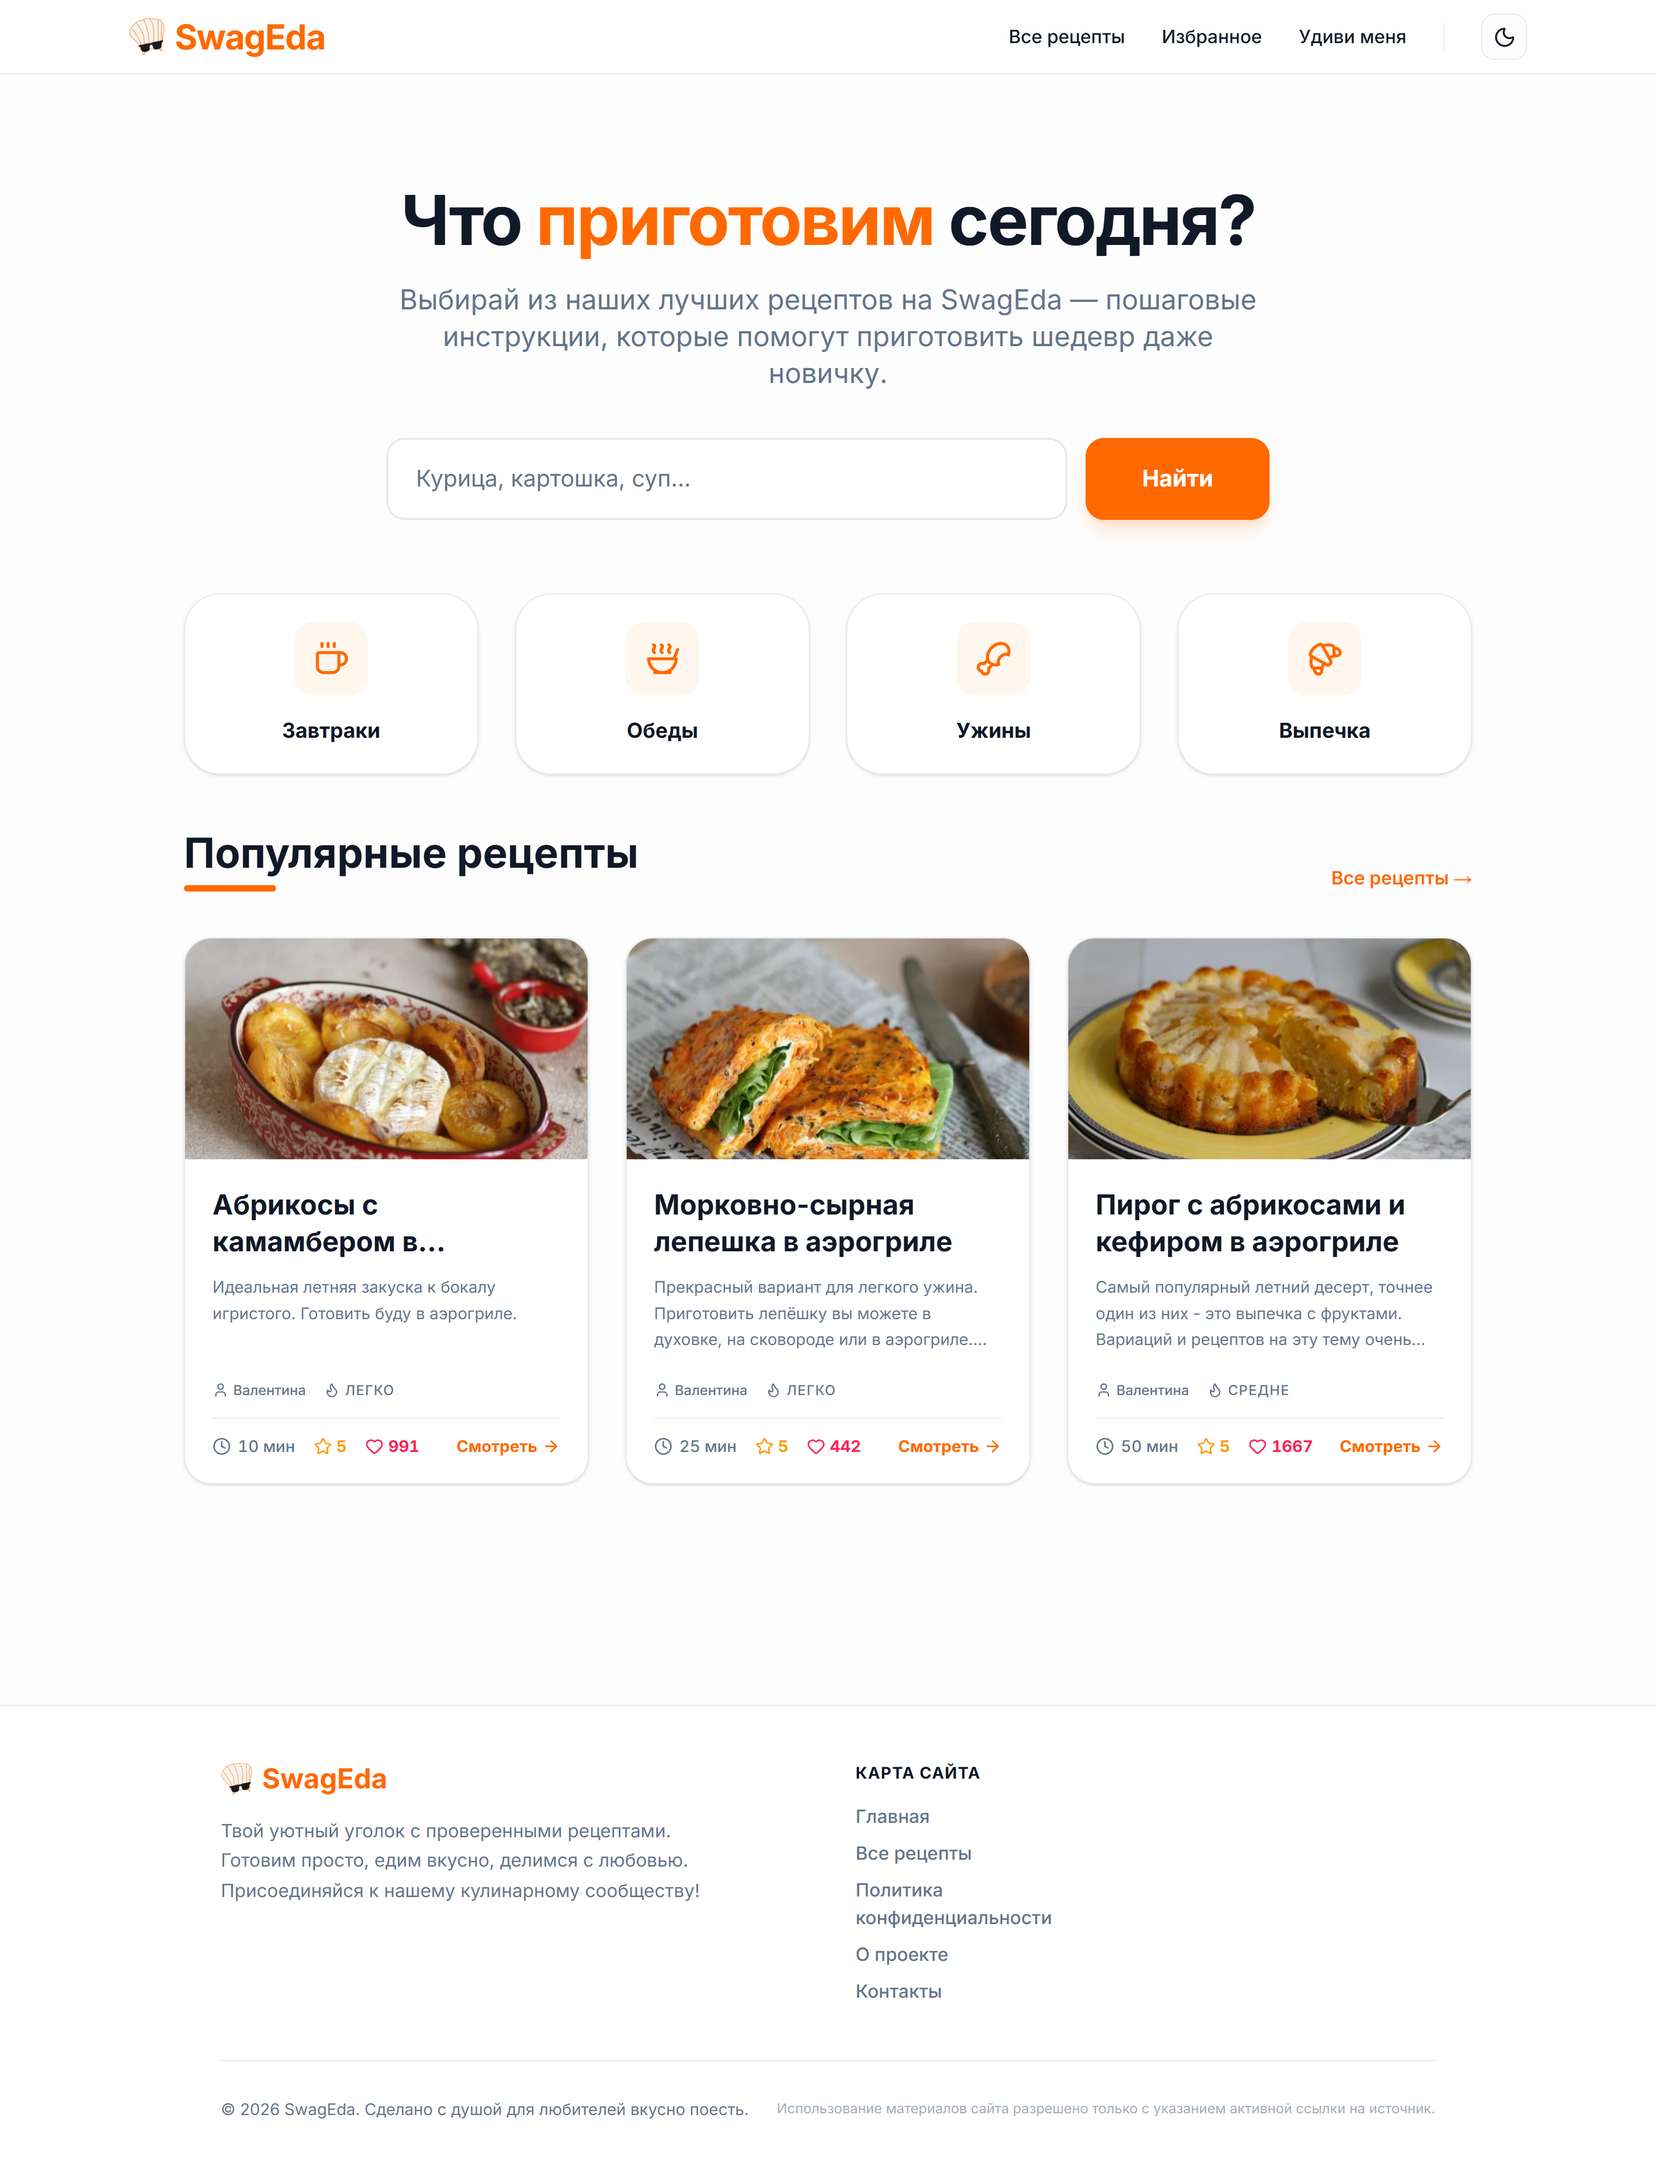
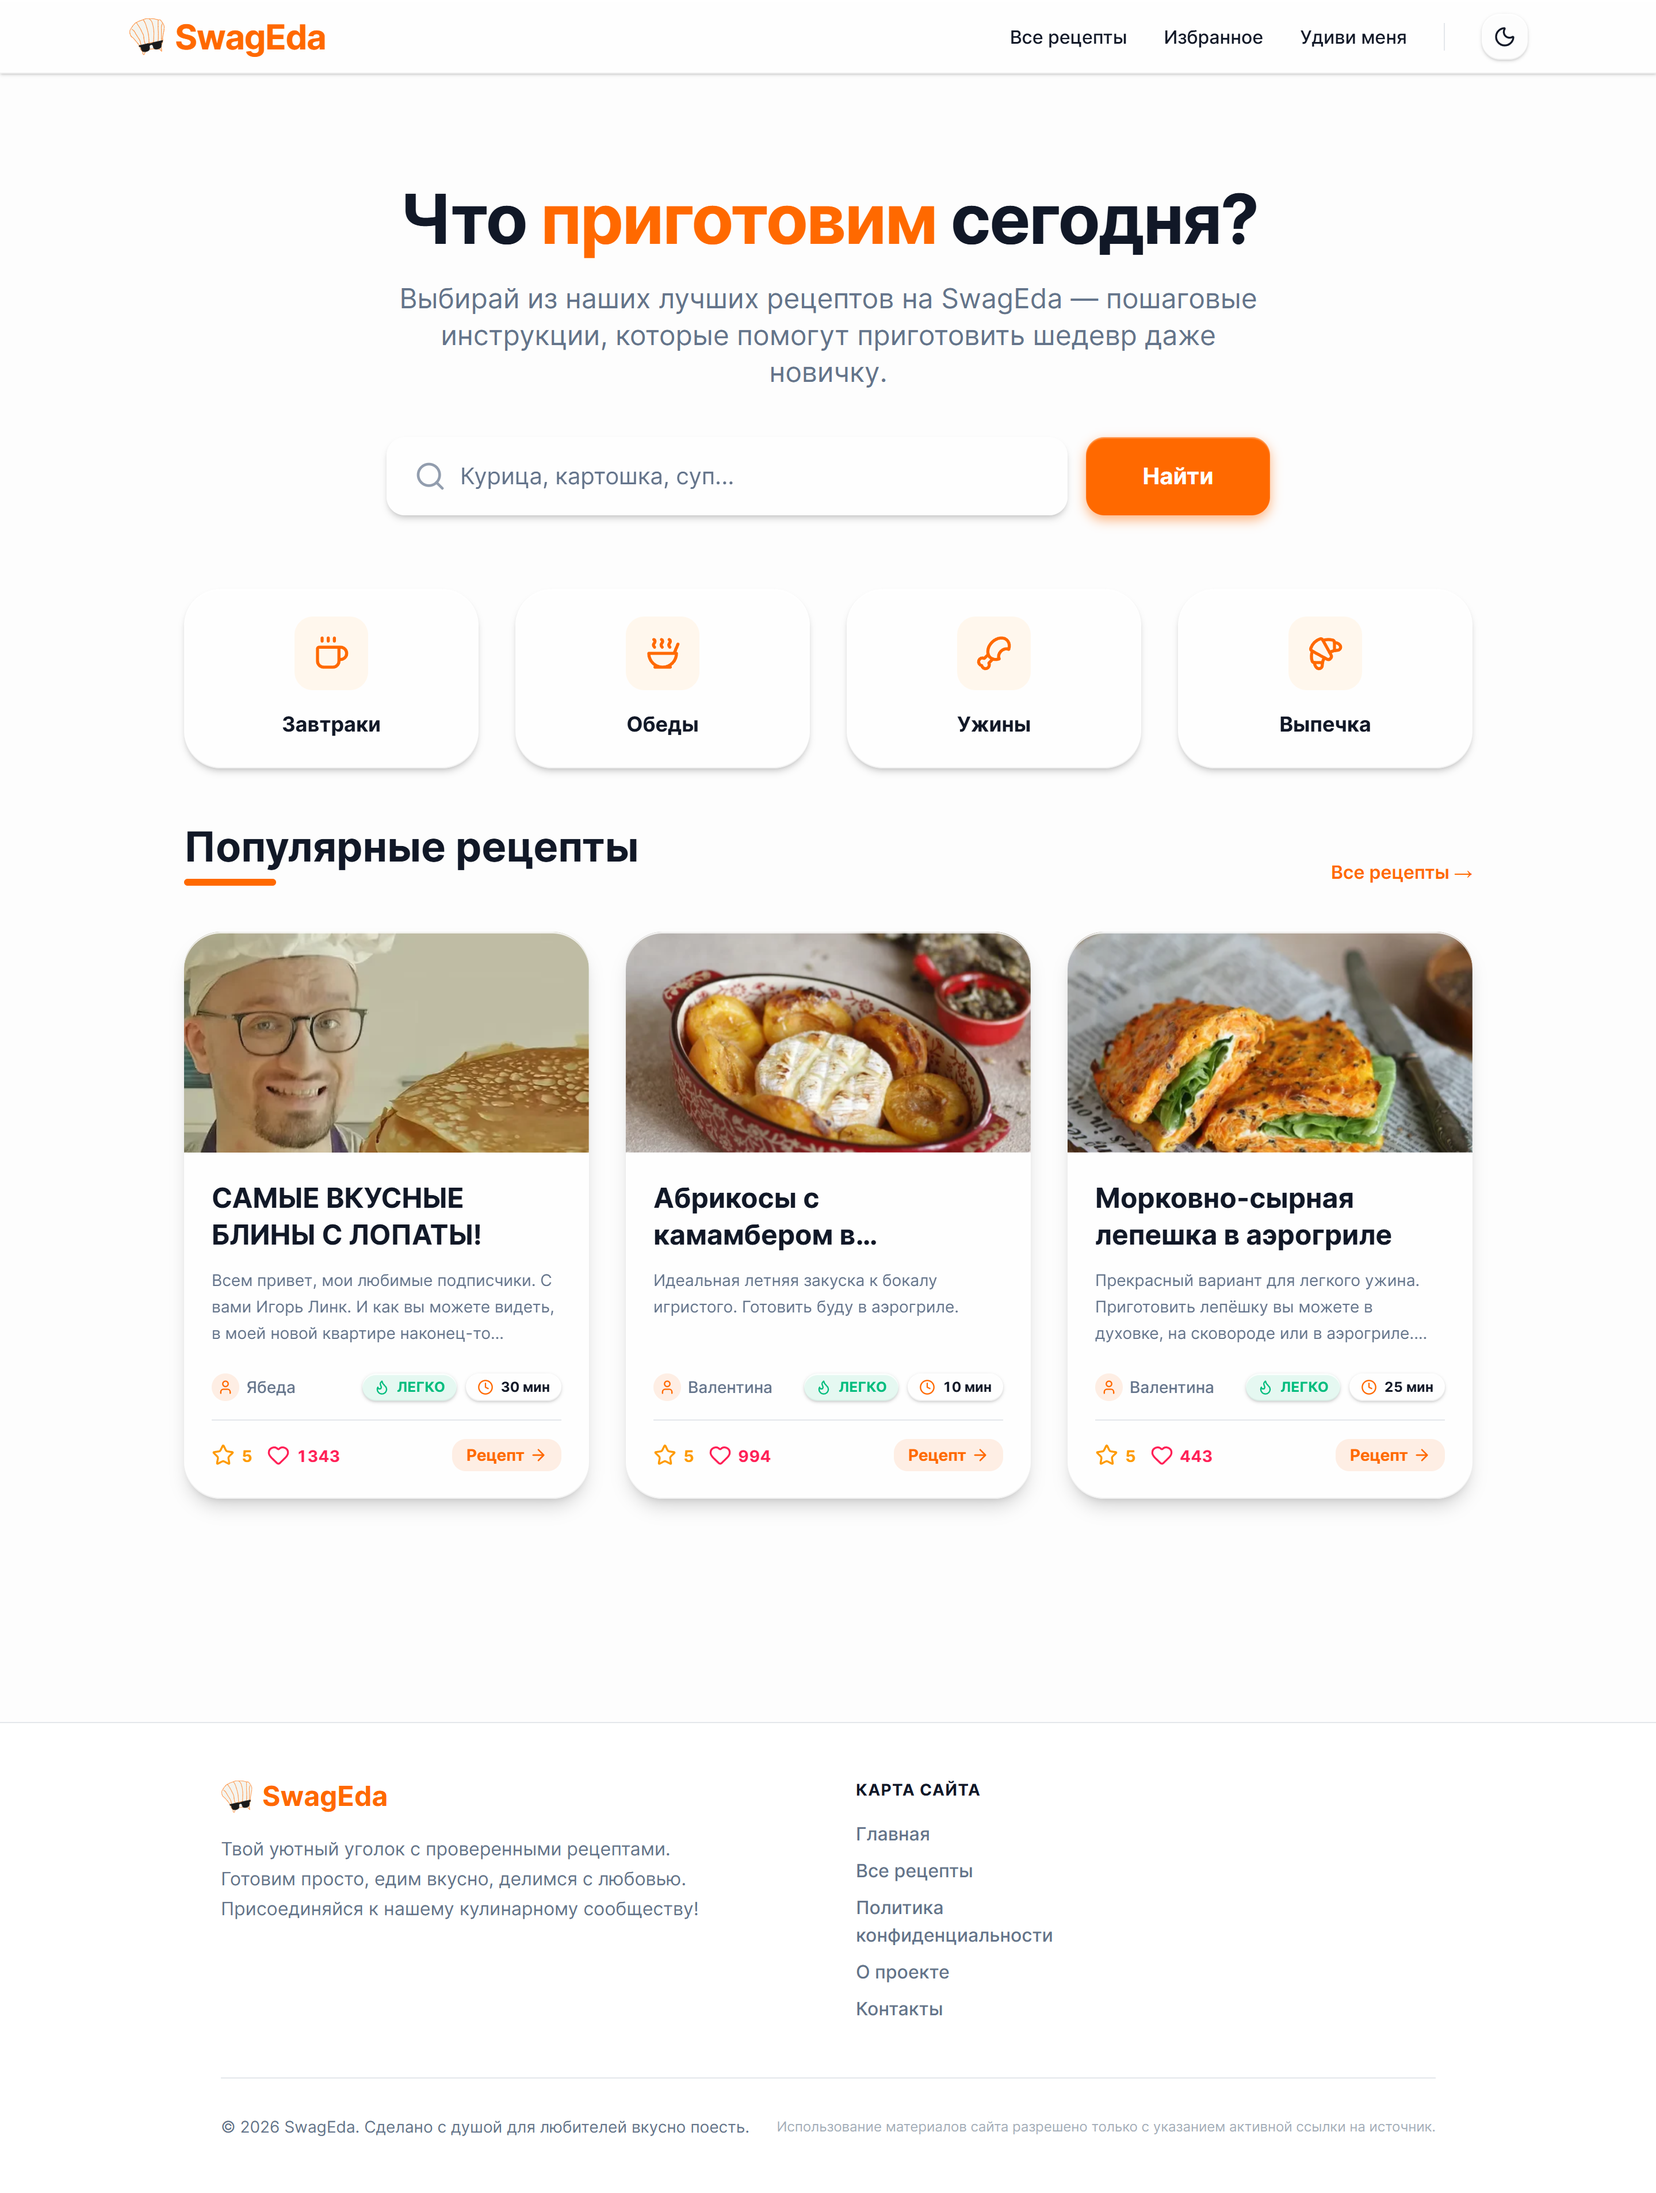
clean up unused variables and finalize README

diff --git a/README.ru.md b/README.ru.md
@@ -42,6 +42,10 @@
 
 ## 🚀 Производительность и оптимизация
 
+<p align="center">
+  <img src="./img/lighthousepng.png" alt="Lighthouse 100 Performance Score" width="600" />
+</p>
+
 - **Zero-JS:** Основной контент отдаётся в виде чистого HTML. JavaScript загружается и гидратируется только для интерактивных "островов" (звёзды рейтинга, переключатель тем), что радикально снижает нагрузку на основной поток (main thread).
 - **Продвинутое кэширование:** Использование HTTP-заголовков `Cache-Control` и CDN Edge Caching для минимизации TTFB (Time to First Byte).
 - **Оптимизация изображений:** Повсеместное использование `astro:assets` для отдачи изображений в современных форматах (WebP/AVIF) с автоматической ленивой загрузкой (lazy loading).
@@ -127,16 +131,32 @@ src/
 
 ---
 
-## 🖼 Скриншоты
+## 🖼 Скриншоты и Темы
 
-### Главная страница
+Проект имеет полноценную поддержку Светлой и Тёмной темы, которая переключается мгновенно без перезагрузки (благодаря Tailwind v4 и CSS-переменным).
 
-<img src="./img/swageda.ru_.png" alt="Главная страница SwagEda с популярными рецептами и поиском" width="800" />
+### Десктопная версия
 
-### Страница рецепта (Десктоп)
+<h4 align="center">Главная страница</h4>
 
-<img src="./img/swageda.ru_recipe_local-1.png" alt="Десктопная версия детальной страницы рецепта с ингредиентами и шагами" width="800" />
+| Светлая тема | Тёмная тема |
+| :---: | :---: |
+| <img src="./img/swageda.ru_.png" alt="Главная Светлая" /> | <img src="./img/swageda.ru_ (1).png" alt="Главная Тёмная" /> |
 
-### Страница рецепта (Мобильная версия)
+<h4 align="center">Все рецепты (Каталог)</h4>
 
-<img src="./img/swageda.ru_recipe_local-1(iPhone 12 Pro).png" alt="Мобильная версия детальной страницы рецепта на iPhone 12 Pro" width="400" />
+| Светлая тема | Тёмная тема |
+| :---: | :---: |
+| <img src="./img/swageda.ru_recipes.png" alt="Каталог Светлая" /> | <img src="./img/swageda.ru_recipes (1).png" alt="Каталог Тёмная" /> |
+
+<h4 align="center">Страница рецепта</h4>
+
+| Светлая тема | Тёмная тема |
+| :---: | :---: |
+| <img src="./img/swageda.ru_recipe_db-40723.png" alt="Рецепт Светлая" /> | <img src="./img/swageda.ru_recipe_db-40723 (1).png" alt="Рецепт Тёмная" /> |
+
+### Мобильная версия (iPhone)
+
+| Светлая тема | Тёмная тема |
+| :---: | :---: |
+| <img src="./img/swageda.ru_collection_dinner(iPhone 14 Pro Max).png" alt="Мобилка Светлая" width="300" /> | <img src="./img/swageda.ru_collection_dinner(iPhone 14 Pro Max) (1).png" alt="Мобилка Тёмная" width="300" /> |

diff --git a/README.md b/README.md
@@ -42,6 +42,10 @@ This project demonstrates strong attention to detail in UX/UI, semantic web stan
 
 ## 🚀 Performance & Optimization
 
+<p align="center">
+  <img src="./img/lighthousepng.png" alt="Lighthouse 100 Performance Score" width="600" />
+</p>
+
 - **Zero-JS Foundation:** The core content is delivered as pure HTML. JavaScript is only loaded and hydrated for interactive "islands" (like rating stars and theme togglers), drastically reducing the main thread load.
 - **Advanced Caching:** Leverages HTTP `Cache-Control` headers and CDN Edge Caching to minimize TTFB (Time to First Byte).
 - **Image Optimization:** Extensive use of `astro:assets` to serve images in Next-Gen formats (WebP/AVIF) with automatic lazy loading.
@@ -127,16 +131,32 @@ src/
 
 ---
 
-## 🖼 Screenshots
+## 🖼 Screenshots & Themes
 
-### Home Page
+The project features full support for Light and Dark modes, which can be toggled instantly without reloading (utilizing Tailwind v4 CSS variables).
 
-<img src="./img/swageda.ru_.png" alt="SwagEda Home Page featuring popular recipes and search bar" width="800" />
+### Desktop View
 
-### Recipe Detail Page (Desktop)
+<h4 align="center">Home Page</h4>
 
-<img src="./img/swageda.ru_recipe_local-1.png" alt="Desktop view of a detailed recipe page with ingredients and steps" width="800" />
+| Light Theme | Dark Theme |
+| :---: | :---: |
+| <img src="./img/swageda.ru_.png" alt="Home Page Light" /> | <img src="./img/swageda.ru_ (1).png" alt="Home Page Dark" /> |
 
-### Recipe Detail Page (Mobile)
+<h4 align="center">All Recipes (Catalog)</h4>
 
-<img src="./img/swageda.ru_recipe_local-1(iPhone 12 Pro).png" alt="Mobile view of a detailed recipe page on an iPhone 12 Pro" width="400" />
+| Light Theme | Dark Theme |
+| :---: | :---: |
+| <img src="./img/swageda.ru_recipes.png" alt="Catalog Light" /> | <img src="./img/swageda.ru_recipes (1).png" alt="Catalog Dark" /> |
+
+<h4 align="center">Recipe Detail</h4>
+
+| Light Theme | Dark Theme |
+| :---: | :---: |
+| <img src="./img/swageda.ru_recipe_db-40723.png" alt="Recipe Detail Light" /> | <img src="./img/swageda.ru_recipe_db-40723 (1).png" alt="Recipe Detail Dark" /> |
+
+### Mobile View (iPhone)
+
+| Light Theme | Dark Theme |
+| :---: | :---: |
+| <img src="./img/swageda.ru_collection_dinner(iPhone 14 Pro Max).png" alt="Mobile Light" width="300" /> | <img src="./img/swageda.ru_collection_dinner(iPhone 14 Pro Max) (1).png" alt="Mobile Dark" width="300" /> |
